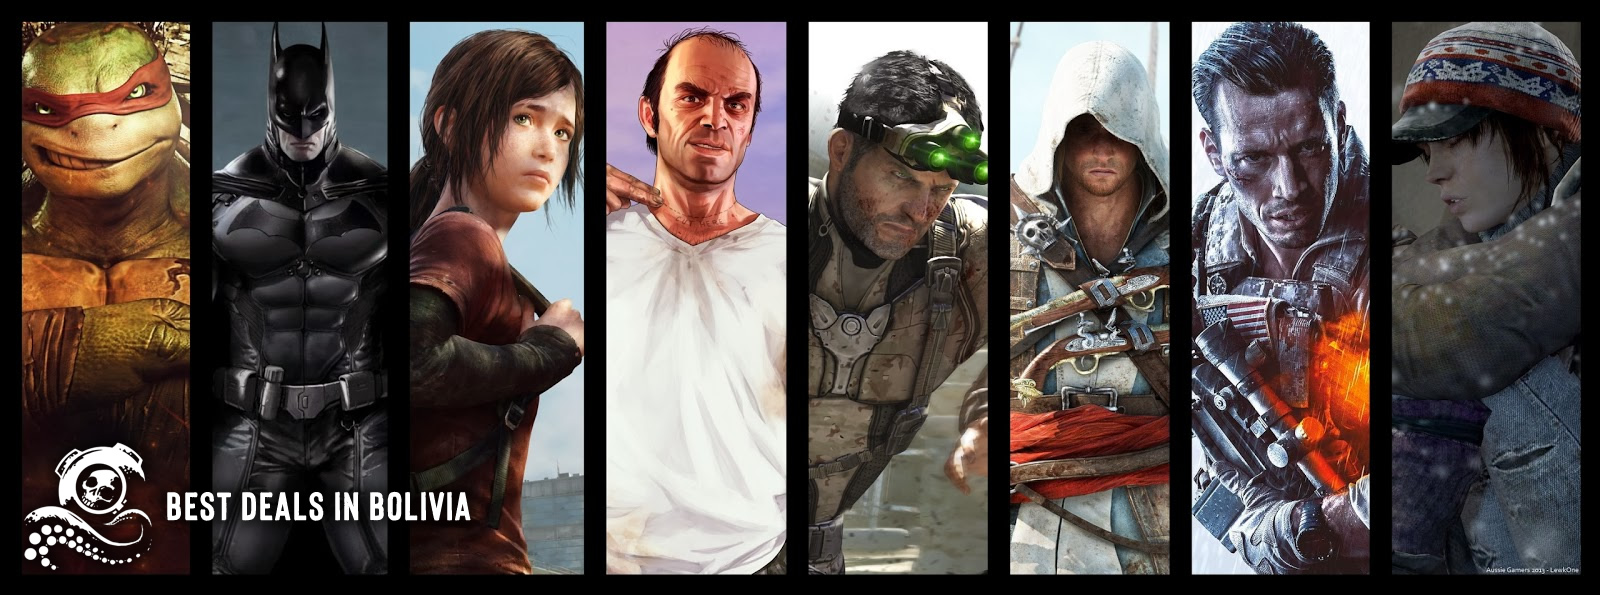
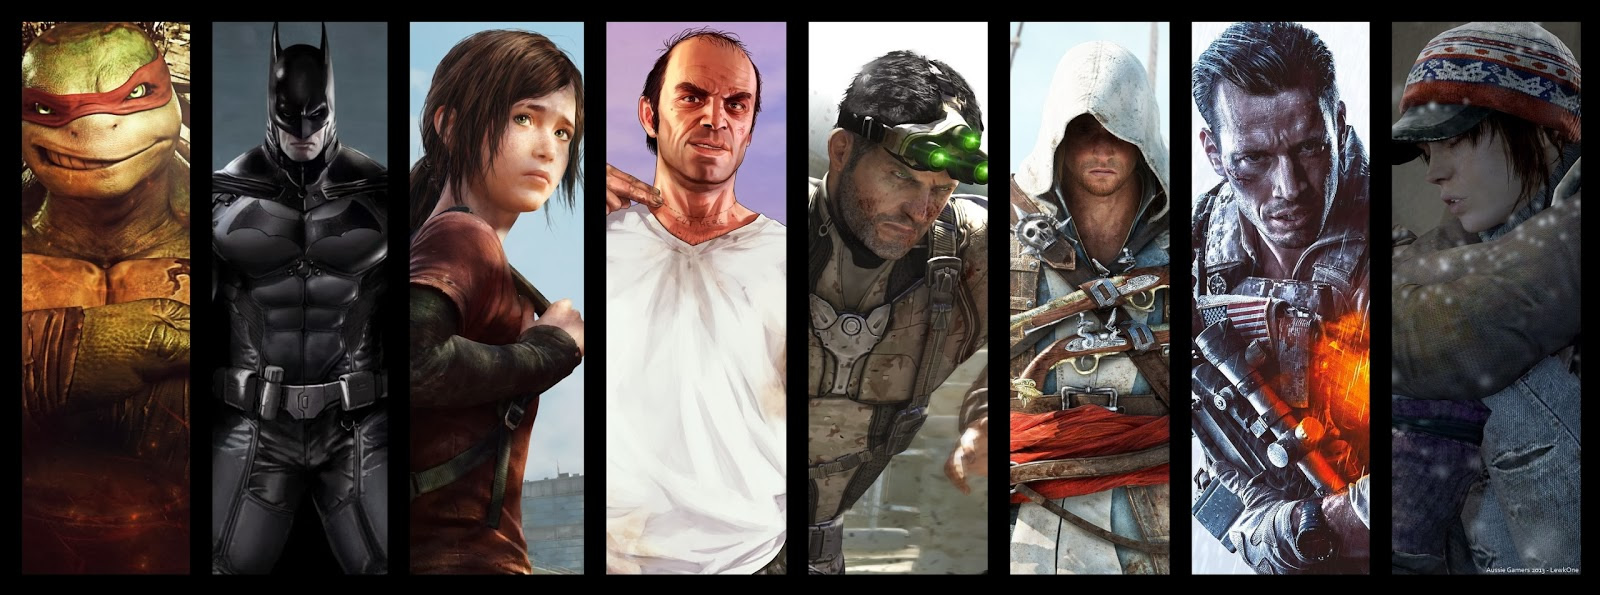
Fixed problem with the darkening of frontpage image

Changed region(s): [[0.0, 0.7261, 0.3125, 0.9681]]

diff --git a/styles.css b/styles.css
@@ -51,9 +51,10 @@ section {
 .btn {
     font-size: 14px;
     padding: 15px 26px;
-    min-width: 100px;
+    min-width: 230px;
     border-radius: 2px;
     display: inline-block;
+
 }
 
 .btn-light {
@@ -67,16 +68,8 @@ section {
     background-color: white;
 }
 
-.navbar-toggler:focus { outline: none; }
-
-#frontpage{
-    background-image: url('images/frontpageGames.jpg');
-    background-size: cover;
-    background-repeat: no-repeat;
-    padding-top: 90px;
-    min-height: 600;
-    
-    color: #EBB80F;
+.navbar-toggler:focus { 
+    outline: none; 
 }
 
 .content-center {
@@ -121,13 +114,46 @@ section {
 
 
 @media (min-width: 576px) { 
-    h1 { font-size: 40px; line-height: normal; }
+    h1 { font-size: 40px; line-height: normal;
  }
 
-@media (min-width: 768px) { ... }
+@media (min-width: 768px) {  }
 
 
-@media (min-width: 992px) { ... }
+@media (min-width: 992px) {  }
 
 
-@media (min-width: 1200px) { ... }
+@media (min-width: 1200px) {  }
+
+.block{
+    background-image: url('images/frontpageGames.jpg');
+    background-size: cover;
+    min-height: 595px;
+    padding-top: 90px;
+    background-repeat: no-repeat;
+    color: white;
+    position: relative;
+
+  }
+  
+  .block:before {
+    content: "";
+    display: block;
+    position: absolute;top: 0;
+    bottom: 0;
+    left: 0;
+    right: 0;
+    background: none;
+    transition: all .3s linear;
+  }
+  
+  .block:hover:before {
+    background: rgba(0, 0, 0, 0.9);
+    
+  }
+
+  .block h2,
+  .block p,
+  .block img {
+    position: relative;
+  }

diff --git a/index.html b/index.html
@@ -61,9 +61,14 @@
     </div>
   </nav>
 
-  <section id="frontpage">
-    <div>
-     <p>HELLOS</p>
+  <section class="block">
+    <div class="container">
+      <div class="content-center topmargin-lg">
+        <h2>Welcome to our store!!!</h2>
+        <p>We hope you can find the game you're looking for. You can place your reservations for <b>THAT</b> game you're waiting for. Check which games are coming soon.</p>
+        <br>
+        <a href="#"><img src="images/FloatingLogo.fw.png" ></a>
+
     </div>
 
   </section>
@@ -100,7 +105,7 @@
                 <p>- This and that lol lmao</p>
               </a>
             </div>
-            <img src="images/gallery-01.jpg" class="img-fluid" alt="gallery-01">
+            <img src="images/gallery-02.jpg" class="img-fluid" alt="gallery-02">
           </div>          
         </div>
 
